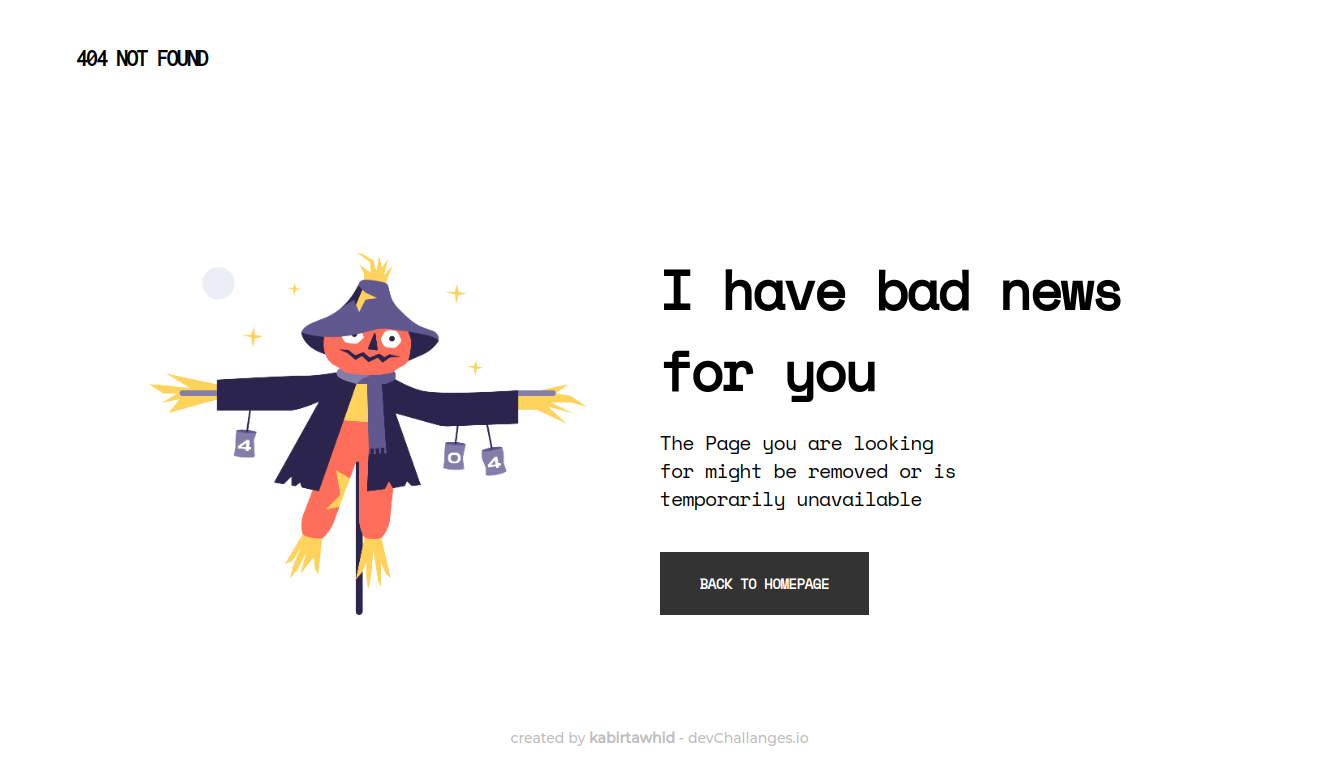
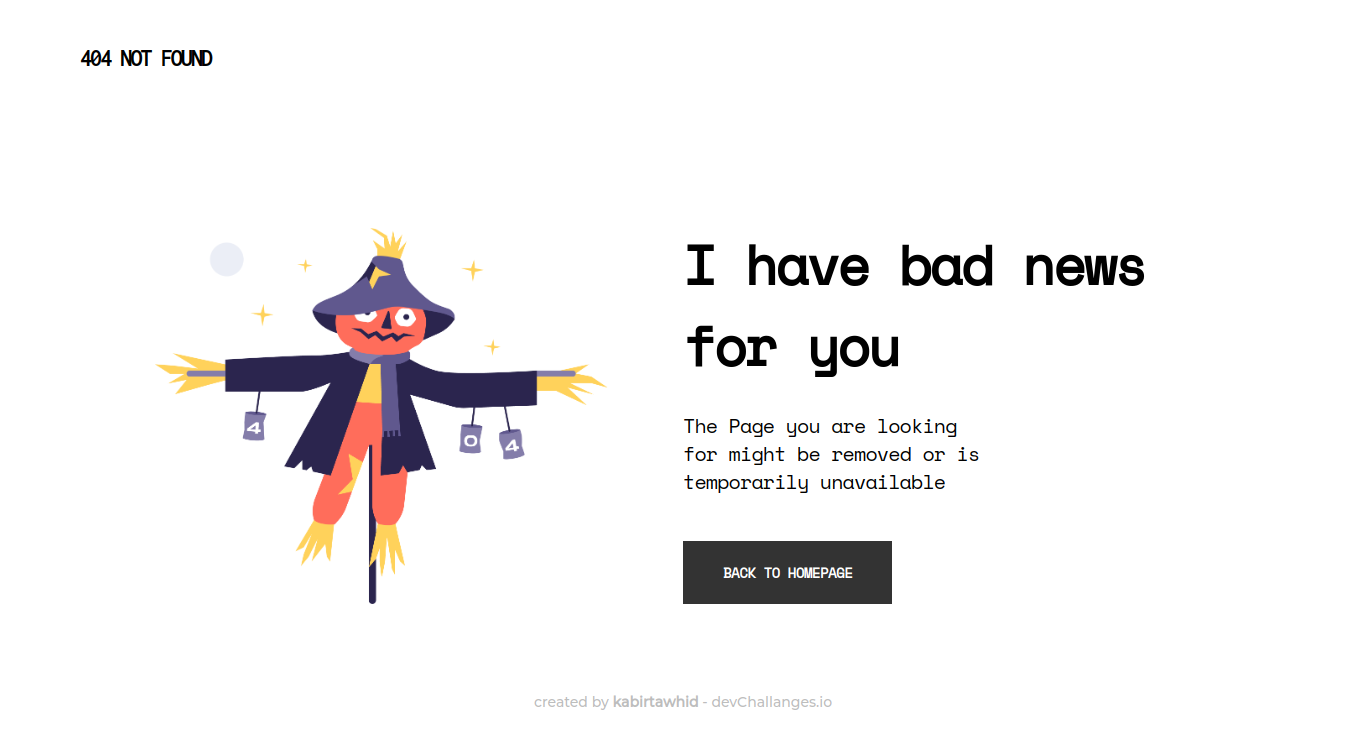
Again updated readme file

diff --git a/src/index.html b/src/index.html
@@ -7,7 +7,7 @@
     <link href="../dist/output.css" rel="stylesheet" />
   </head>
   <body
-    class="mx-[24px] max-w-[1360px] xl:m-auto md:mx-[77px] pt-[20px] md:pt-[40px] max-md:min-h-screen md:h-screen flex flex-col md:justify-between"
+    class="px-[24px] max-w-[1360px] xl:m-auto md:px-[77px] pt-[20px] md:pt-[40px] max-md:min-h-screen md:h-screen flex flex-col md:justify-between"
   >
     <header>
       <h3 class="font-['Inconsolata'] text-[24px] tracking-[-1.92px]">
